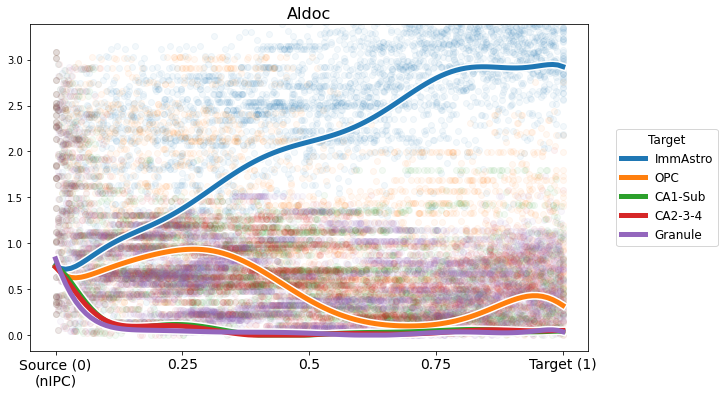
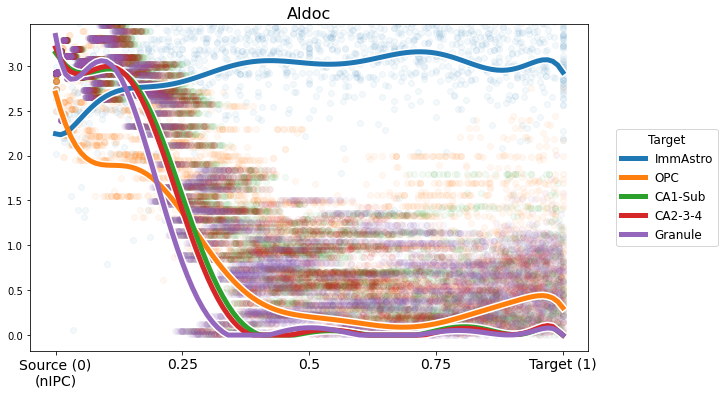
Update codes

diff --git a/cellmap/cellmap.py b/cellmap/cellmap.py
@@ -14,12 +14,15 @@ import scanpy
 import scipy
 import scvelo as scv
 import sklearn.preprocessing
+import sklearn.mixture
 import sklearn.neighbors
 from sklearn.linear_model import LinearRegression
 from sklearn.preprocessing import PolynomialFeatures
 import pandas as pd
 import plotly.graph_objects as go
-from plotly.offline import plot
+import plotly.io as pio
+import plotly.offline
+import umap
 
 
 
@@ -31,32 +34,6 @@ def create_graph(
     cut_std = None,
     return_type = 'edges',
 ):
-    # tri_ = matplotlib.tri.Triangulation(X[:,0],X[:,1])
-    # X_src_,X_trg_ = X[tri_.edges[:,0]],X[tri_.edges[:,1]]
-    # length_edge_ = np.linalg.norm(X_src_-X_trg_,axis=1)
-    # x1,y1 = X[tri_.triangles[:,0],0],X[tri_.triangles[:,0],1]
-    # x2,y2 = X[tri_.triangles[:,1],0],X[tri_.triangles[:,1],1]
-    # x3,y3 = X[tri_.triangles[:,2],0],X[tri_.triangles[:,2],1]
-    # vol_ = np.abs((x1-x3)*(y2-y3)-(x2-x3)*(y1-y3))
-    # length_ = np.max([(x1-x2)**2+(y1-y2)**2,(x2-x3)**2+(y2-y3)**2,(x3-x1)**2+(y3-y1)**2],axis=0)
-    # if cut_std == None:
-    #     std_delta_ = 0.1
-    #     std_min_ = 1
-    #     cut_std = std_min_
-    #     while 1:
-    #         if len(np.unique(tri_.edges[length_edge_ < cut_std*np.std(length_edge_)].reshape(-1,1).T[0])) == X.shape[0]:
-    #             break
-    #         cut_std = cut_std + std_delta_
-    # if cutedge_vol == None:
-    #     judge_vol_tri_ = vol_ < cut_std*np.std(vol_)
-    # else:
-    #     judge_vol_tri_ = vol_ < np.percentile(vol_,100-cutedge_vol)
-    # if cutedge_length == None:
-    #     judge_length_edge_ = length_edge_ < cut_std*np.std(length_edge_)
-    #     judge_length_tri_= length_ < cut_std*np.std(length_)
-    # else:
-    #     judge_length_edge_ = length_edge_ < np.percentile(length_edge_,100-cutedge_length)
-    #     judge_length_tri_ = length_ < np.percentile(length_edge_,100-cutedge_length)#np.percentile(length_,100-cutedge_length)
     tri_ = matplotlib.tri.Triangulation(X[:,0],X[:,1])
     X_src_,X_trg_ = X[tri_.edges[:,0]],X[tri_.edges[:,1]]
     length_edge_ = np.linalg.norm(X_src_-X_trg_,axis=1)
@@ -1039,7 +1016,7 @@ def view_3D(
         fig = go.Figure(data=data, layout=layout)
     fig.show()
     
-    if save: plot(fig, filename=filename+'.html')
+    if save: plotly.offline.plot(fig, filename=filename+'.html')
 
 def view_surface_3D(
     adata,
@@ -1522,7 +1499,9 @@ def gene_dynamics(
         model = LinearRegression()
         model.fit(X_poly, y_data)
         plot_x = np.linspace(0,1,n_div+1)
-        gene_dynamics_[source_cluster+'_'+target_clusters[i]] = model.predict(poly.fit_transform(plot_x[:, np.newaxis]))
+        gd_i_ = model.predict(poly.fit_transform(plot_x[:, np.newaxis]))
+        gd_i_[gd_i_ <0] = 0
+        gene_dynamics_[source_cluster+'_'+target_clusters[i]] = gd_i_
     adata.uns[gene_dynamics_key] = gene_dynamics_
     print('Done the computation of gene dynamics')
     
@@ -1735,10 +1714,11 @@ def gene_dynamics_DEG(
             lim = np.array([-0.01*max_val_,1.01*max_val_])
             k = k+1
             ani = anm.FuncAnimation(fig,update,interval=200,fargs=(name_i_,name_j_,max_val_,lim,i,j,k,),frames=n_div+1)
-            if len(target_genes): file_name += '_TG' + str(len(target_genes))
             IPython.display.display(IPython.display.HTML(ani.to_jshtml()))
             if save:
-                filename = '%s_%s_%s.gif' % (save_filename,target_clusters[i],target_clusters[j]) if save_dir == None else '%s/%s_%s_%s.gif' % (save_dir,save_filename,target_clusters[i],target_clusters[j])
+                filename = '%s_%s_%s' % (save_filename,target_clusters[i],target_clusters[j]) if save_dir == None else '%s/%s_%s_%s' % (save_dir,save_filename,target_clusters[i],target_clusters[j])
+                if len(target_genes): filename += '_TG' + str(len(target_genes))
+                filename += '.gif'
                 print('\nSaving gif animation as %s' % filename)
                 ani.save(filename)
             plt.close()
@@ -1795,3 +1775,182 @@ def bifurcation_diagram(
     ax.yaxis.set_visible(False)
     ax.set_xticks(vlines)
     ax.set_xticklabels(vline_labels,fontsize=fontsize_label)
+
+def gene_atlas(
+        adata,
+        source_cluster,
+        target_clusters,
+        target_genes = [],
+        gene_dynamics_key = 'gene_dynamics',
+        n_div = 100,
+        n_neighbors = 15,
+        min_dist = 0.3,
+        seed = 0,
+        threshold_min = 1,
+        n_clusters = 20,
+        n_components = 2,
+        pt_size = 5,
+    ):
+    gene_dynamics_ = adata.uns[gene_dynamics_key]
+
+    gene_dynamics_all_ = np.empty([0,n_div+1],dtype=float)
+    idx_gene_dynamics_ = [0]
+    for i in range(len(target_clusters)):
+        name_i_ = source_cluster + '_' + target_clusters[i]
+        max_ = np.max(gene_dynamics_[name_i_],axis=0)
+        idx_ = max_ > threshold_min
+        adata.var[name_i_+'_'+'expressed'] = idx_
+        idx_gene_dynamics_ = np.append(idx_gene_dynamics_,idx_gene_dynamics_[i]+sum(idx_))
+        gene_dynamics_all_ = np.vstack((gene_dynamics_all_,(gene_dynamics_[name_i_][:,idx_]/max_[idx_]).T))
+
+
+    umap_ = umap.UMAP(n_components=n_components,random_state=seed,n_neighbors=n_neighbors,min_dist=min_dist)
+    gene_dynamics_all_umap_ = umap_.fit_transform(gene_dynamics_all_)
+
+    data_ = gene_dynamics_all_umap_
+    gm = sklearn.mixture.GaussianMixture(n_components=n_clusters,random_state=0).fit(data_)
+    clusters_tmp_ = gm.predict(data_)
+    pc1_ = sklearn.decomposition.PCA(n_components=1).fit_transform(data_)
+    pc1_order_ = np.argsort([np.mean(pc1_[clusters_tmp_==i]) for i in range(n_clusters)])
+    dict_sort_ = dict(zip(pc1_order_,np.unique(clusters_tmp_)))
+    clusters_ = np.array([dict_sort_[c] for c in clusters_tmp_])
+    cluster_set_ = np.unique(clusters_)
+
+    x_data = gene_dynamics_all_umap_[:,0]
+    y_data = gene_dynamics_all_umap_[:,1]
+
+    color_clusters_ = np.array(['rgb'+str(tuple(int(i *255) for i in plt.get_cmap("tab20")(c))) for c in clusters_])
+    color_celltypes_ = np.empty(len(gene_dynamics_all_),dtype=object)
+
+    texts_ = []
+    s_,e_ = 0,0
+    annotations = [
+        go.layout.Annotation(
+            xref='paper',
+            yref='paper',
+            x=0.01,
+            y=0.99,
+            text='<b>Gene Atlas<b>',
+            font=dict(size=18,color='white'),
+            showarrow=False,
+        )
+    ]
+    for i in range(len(target_clusters)):
+        idx_ = adata.var[source_cluster + '_' + target_clusters[i]+'_'+'expressed']
+        gene_list_ = adata.var.index[idx_].values
+        e_ += sum(idx_)
+        color_celltypes_[s_:e_] = 'rgba'+str(plt.get_cmap("tab10")(i))
+        txt_ = gene_list_ + '<br>' + target_clusters[i]+'<br>cluster '+ np.array(clusters_[s_:e_]+1,dtype=str)#+ '<br><img src="'+image_+'" width="200">'
+        texts_= np.append(texts_,txt_)
+        for gene in target_genes:
+            if gene in gene_list_:
+                x_pos = x_data[np.arange(sum(idx_))[gene_list_==gene][0]+s_]
+                y_pos = y_data[np.arange(sum(idx_))[gene_list_==gene][0]+s_]
+                annotations.append(
+                    go.layout.Annotation(
+                        x=x_pos,
+                        y=y_pos,
+                        xref='x',
+                        yref='y',
+                        text='<b>%s_%s<b>' % (target_clusters[i],gene),
+                        showarrow=True,
+                        arrowhead=1,
+                        arrowcolor='white',
+                        font=dict(size=12,color='white'),
+                    )
+                )
+        s_ += sum(idx_)
+
+    data_clusters_ = [
+        go.Scatter(
+            x=x_data,
+            y=y_data,
+            mode='markers',
+            marker=dict(
+                color=color_clusters_,
+                size=30,
+                opacity=0.2,
+            ),
+            hoverinfo='skip',
+            showlegend=False,
+        )
+    ]
+    for c in cluster_set_:
+        idx_ = clusters_ ==c
+        data_clusters_.append(
+            go.Scatter(
+                x=x_data[idx_],
+                y=y_data[idx_],
+                text = texts_[idx_],
+                mode='markers',
+                name='cluster '+str(c+1),
+                marker=dict(
+                    color='rgb'+str(tuple(int(i*255) for i in plt.get_cmap("tab20")(c))),
+                    size=pt_size,
+                    opacity=1,
+                    line=dict(
+                        color='white',
+                        width=0.5,
+                    ),
+                ),
+            )
+        )
+
+    s_,e_ = 0,0
+    data_celltypes_ = []
+    for i in range(len(target_clusters)):
+        idx_ = adata.var[source_cluster + '_' + target_clusters[i]+'_'+'expressed']
+        gene_list_ = adata.var.index[idx_].values
+        e_ += sum(idx_)
+        data_celltypes_.append(
+            go.Scatter(
+                x=x_data[s_:e_],
+                y=y_data[s_:e_],
+                text = texts_[s_:e_],
+                mode='markers',
+                name=target_clusters[i],
+                marker=dict(
+                    color=color_celltypes_[s_:e_],
+                    size=pt_size,
+                    opacity=1,
+                    line=dict(
+                        color='white',
+                        width=0.5,
+                    ),
+                )
+            )
+        )
+        s_ += sum(idx_)
+
+
+    layout = go.Layout(
+        width=1200,
+        height=800,
+        plot_bgcolor='rgba(1,1,1,1)',
+        paper_bgcolor='rgba(0,0,0,0)',
+        xaxis=dict(
+            # showgrid=False,
+            gridcolor='gray',
+            gridwidth=1,
+            griddash='dot',
+            zeroline=False,
+            showticklabels=False,
+            layer='below traces',
+        ),
+        yaxis=dict(
+            # showgrid=False,
+            gridcolor='gray',
+            gridwidth=1,
+            griddash='dot',
+            zeroline=False,
+            showticklabels=False,
+            layer='below traces',
+        ),
+        annotations=annotations
+    )
+
+    fig = go.Figure(data=data_clusters_, layout=layout)
+    pio.show(fig)
+
+    fig = go.Figure(data=data_celltypes_, layout=layout)
+    pio.show(fig)
